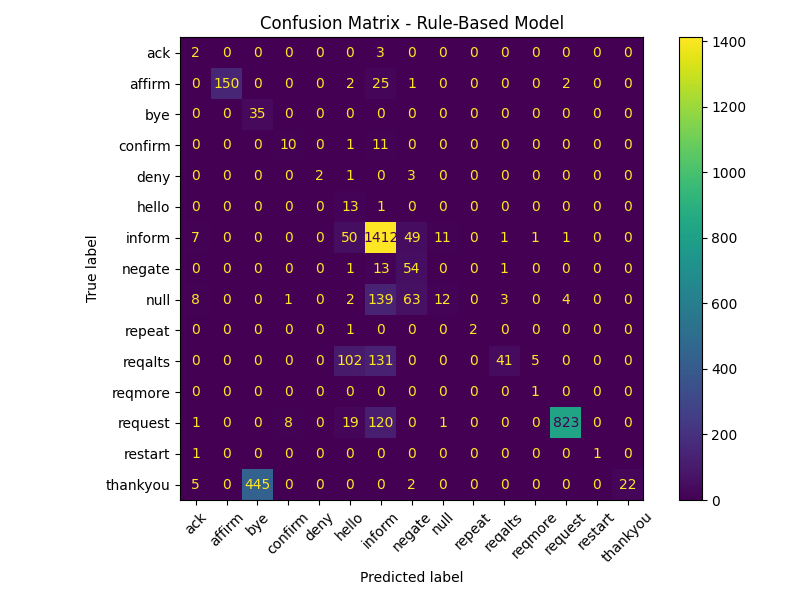
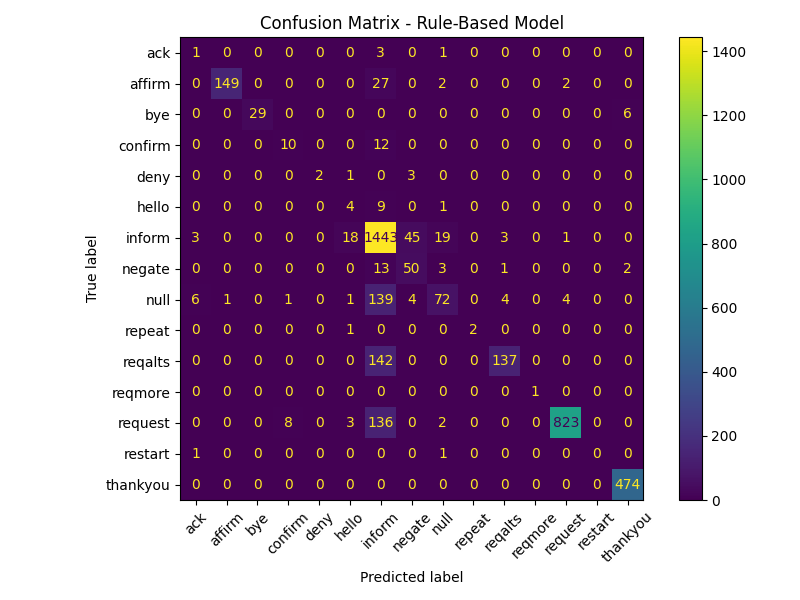
finished comments for part1A

diff --git a/part1A.py b/part1A.py
@@ -10,6 +10,24 @@ import matplotlib.pyplot as plt
 
 DATA_FILE = 'data/dialog_acts.dat'
 
+RULES = {
+    'inform': ['restaurant', 'food', 'place', 'serves', 'i need', 'looking for', 'preference', 'information', 'moderate price', 'any part of town', 'south part of town'],        'request': ['what is', 'where is', 'can you tell', 'post code', 'address', 'location', 'phone number', 'could i get', 'request', 'find', 'search', 'detail'],
+    'request': ['what is', 'where is', 'can you tell', 'post code', 'address', 'location', 'phone number', 'could i get', 'request', 'find', 'search', 'detail'],
+    'thankyou': ['thank', 'thanks', 'appreciate', 'grateful', 'thank you', 'many thanks', 'thankful'],
+    'reqalts': ['how about', 'alternative', 'other', 'other options', 'alternatives', 'another', 'another suggestion', 'different', 'else', 'instead'],
+    'null': ['cough', 'noise', 'laugh', 'uh', 'um', 'background', 'incoherent'],
+    'affirm': ['yes', 'yeah', 'right', 'correct', 'sure', 'absolutely', 'definitely', 'of course', 'affirm', 'indeed'],
+    'negate': ['no', 'not', 'don\'t', 'nope', 'none', 'wrong', 'never', 'incorrect'],
+    'bye': ['goodbye', 'bye', 'see you', 'farewell', 'later', 'take care', 'talk to you soon'],
+    'confirm': ['confirm', 'is it', 'check if', 'right?', 'verify', 'am i correct', 'confirming', 'confirmation', 'can you confirm'],
+    'hello': ['hi', 'hello', 'hey', 'greetings', 'good morning', 'good afternoon', 'good evening', 'howdy'],
+    'repeat': ['repeat', 'again', 'say again', 'can you repeat', 'could you repeat', 'pardon'],
+    'ack': ['okay', 'um', 'uh-huh', 'got it', 'alright', 'fine', 'ok', 'acknowledge'],
+    'deny': ['dont want', 'don\'t want', 'reject', 'not that', 'no thanks', 'not interested', 'decline', 'denying'],
+    'restart': ['restart', 'start over', 'begin again', 'reset', 'new', 'begin anew'],
+    'reqmore': ['more', 'additional', 'extra', 'any more', 'other', 'further']
+}
+
 def create_dataframe(data_file):
     """
     Creates a Pandas DataFrame from the given data file.
@@ -20,7 +38,6 @@ def create_dataframe(data_file):
     Returns:
         df: A DataFrame with two columns: 'label' and 'utterance'.
     """
-
     labels = []
     utterances = []
 
@@ -45,7 +62,6 @@ def create_dataframe_no_dup(df):
     Returns:
         df_no_dup: A new DataFrame with duplicate utterances removed.
     """
-    
     # remove \n to avoid newlines in no dup file
     df['utterance'] =  df['utterance'].str.replace('\n', '')
 
@@ -57,6 +73,31 @@ def create_dataframe_no_dup(df):
 
     return df_no_dup
 
+def generate_barplots(df):
+    """
+    Generates a bar plot visualizing the distribution of utterance lengths (number of words) in the given DataFrame.
+
+    Args:
+        df: A Pandas DataFrame with 'label' and 'utterance' columns.
+    """
+    count = df['utterance'].str.split().str.len()
+    count.index = count.index.astype(str) + ' words:'
+    count.value_counts().plot(logy=True, kind='bar', color='green', title='Distribution of # words per utterance of original dataset')
+    
+    plt.xlabel('# words in utterance', labelpad=12)
+    plt.ylabel('Count')
+
+    # Adjust layout to prevent labels from being cut off
+    plt.tight_layout()
+
+    # Create the 'figures' directory if it doesn't exist
+    figures_dir = "figures"
+    os.makedirs(figures_dir, exist_ok=True)
+    
+    # Save the plot in the 'figures' directory
+    plot_filename = os.path.join(figures_dir, "Number of words per utterance.png")
+    plt.savefig(plot_filename)
+
 def return_majority_label(df):
     """
     Returns the most frequent label in the DataFrame.
@@ -67,7 +108,6 @@ def return_majority_label(df):
     Returns:
         majority_label: The most frequent label in the DataFrame.
     """
-
     # Count occurrences of each label
     label_counts = df['label'].value_counts()
 
@@ -89,7 +129,6 @@ def majority_label_model_predict(df, X_test):
     Returns:
         y_pred: A list of predicted labels (the majority label).
     """
-
     y_pred = []
     majority_label = return_majority_label(df)
     for _ in X_test: # for every utterance in X_test
@@ -106,31 +145,7 @@ def rule_based_model_get_label(utterance):
     Returns:
         predicted_label: The predicted label.
     """
-
-    rules = {
-        'hello': ['hi', 'hello', 'hey', 'greetings', 'good morning', 'good afternoon', 'good evening', 'howdy'],
-        'inform': ['restaurant', 'food', 'place', 'serves', 'i need', 'looking for', 'preference', 'information', 'moderate price', 'any part of town', 'south part of town'],
-
-        'request': ['what is', 'where is', 'can you tell', 'post code', 'address', 'location', 'phone number', 'could i get', 'request', 'find', 'search', 'detail'],
-        'reqmore': ['more', 'additional', 'extra', 'any more', 'other', 'further'],
-        'reqalts': ['how about', 'alternative', 'other', 'other options', 'alternatives', 'another', 'another suggestion', 'different', 'else', 'instead'],
-
-        'negate': ['no', 'not', 'don\'t', 'nope', 'none', 'wrong', 'never', 'incorrect'],
-        'deny': ['dont want', 'don\'t want', 'reject', 'not that', 'no thanks', 'not interested', 'decline', 'denying'],
-        'bye': ['goodbye', 'bye', 'see you', 'farewell', 'later', 'take care', 'talk to you soon'],
-
-        'ack': ['okay', 'um', 'uh-huh', 'got it', 'alright', 'fine', 'ok', 'acknowledge'],
-        'confirm': ['confirm', 'is it', 'check if', 'right?', 'verify', 'am i correct', 'confirming', 'confirmation', 'can you confirm'],
-        'affirm': ['yes', 'yeah', 'right', 'correct', 'sure', 'absolutely', 'definitely', 'of course', 'affirm', 'indeed'],
-        'thankyou': ['thank', 'thanks', 'appreciate', 'grateful', 'thank you', 'many thanks', 'thankful'],
-
-        'repeat': ['repeat', 'again', 'say again', 'can you repeat', 'could you repeat', 'pardon'],
-        'restart': ['restart', 'start over', 'begin again', 'reset', 'new', 'begin anew'],
-
-        'null': ['cough', 'noise', 'laugh', 'uh', 'um', 'background', 'incoherent']
-    }
-
-    for label, keywords in rules.items():
+    for label, keywords in RULES.items():
         if any(keyword in utterance for keyword in keywords):
             return label
 
@@ -147,7 +162,6 @@ def rule_based_model_predict(X_test):
     Returns:
         y_pred: A list of predicted labels corresponding to the test utterances.
     """
-
     y_pred = []
     for utterance in X_test:
         y_pred.append(rule_based_model_get_label(utterance))
@@ -166,10 +180,8 @@ def train_DT_LR(X_train, y_train):
         LR_model: The trained Logistic Regression model.
         vectorizer: The fitted CountVectorizer object.
     """
-
     vectorizer = CountVectorizer()
     X_bow_train = vectorizer.fit_transform(X_train)
-    # X_bow_test = vectorizer.transform(X_test)
     
     # Train Decision-Tree model
     DT_model = DecisionTreeClassifier()
@@ -195,7 +207,6 @@ def predict_DT_LR(DT_model, LR_model, vectorizer, X_test):
         Y_pred_DT: A list or array containing the predicted labels for the test data using the Decision Tree model.
         Y_pred_LR: A list or array containing the predicted labels for the test data using the Logistic Regression model.
     """
-
     X_bow_test = vectorizer.transform(X_test)
     Y_pred_DT = DT_model.predict(X_bow_test)
     Y_pred_LR = LR_model.predict(X_bow_test)
@@ -212,7 +223,6 @@ def save_confusion_matrix(y_test, y_pred, model_name):
         y_pred: A list of the predicted labels for the test set.
         model_name: A string with the name of the model for evaluation.
     """
-
     # labels = ["ack", "affirm", "bye", "confirm", "deny", "hello", "inform", "negate", "null", "repeat", "reqalts", "require", "request", "restart", "thankyou"]
     
     # Get the unique labels from the test set and sort to keep labels in the correct order
@@ -250,7 +260,6 @@ def print_metrics(y_test, y_pred, model_name):
         y_pred: A list of the predicted labels for the test set.
         model_name: A string with the name of the model for evaluation.
     """
-
     print("\nClassification Report:")
     print(classification_report(y_test, y_pred, zero_division=0))
 
@@ -267,27 +276,39 @@ def print_metrics(y_test, y_pred, model_name):
     print("Recall:", recall)
     print("F1-score:", f1)
 
-def print_metrics_for_each_model(df, X_dup_test, y_dup_test, y_no_dup_test, y_dup_pred_DT, y_dup_pred_LR, y_no_dup_pred_DT, y_no_dup_pred_LR):
+def print_metrics_for_baseline_models(df, X_test, y_test):
     """
-    Prints evaluation metrics for alld the models (majority-label model,
-    rule-based model, decision tree and logistic regression).
+    Prints evaluation metrics for the baseline models (majority-label model and rule-based model).
 
     Args:
         df: The DataFrame containing the training data.
         X_test: A list of test utterances.
         y_test: A list of the actual labels for the test utterances.
     """
-    
     # Make predictions and print metrics for the majority label model
     print("\nMajority-Label Model - Evaluation Metrics:")
-    y_pred_ml = majority_label_model_predict(df, X_dup_test)
-    print_metrics(y_dup_test, y_pred_ml, "Majority-Label Model")
+    y_pred = majority_label_model_predict(df, X_test)
+    print_metrics(y_test, y_pred, "Majority-Label Model")
 
     # Make predictions and print metrics for the rule based model
     print("\nRule-Based Model - Evaluation Metrics:")
-    y_pred_rb = rule_based_model_predict(X_dup_test)
-    print_metrics(y_dup_test, y_pred_rb, "Rule-Based Model")
+    y_pred = rule_based_model_predict(X_test)
+    print_metrics(y_test, y_pred, "Rule-Based Model")
 
+def print_metrics_for_DT_LR(y_dup_test, y_dup_pred_DT, y_dup_pred_LR, y_no_dup_test, y_no_dup_pred_DT, y_no_dup_pred_LR):
+    """
+    Prints evaluation metrics for the ML models (Decision Tree and Logistic Regression)
+    on both the original and duplicate-free data.
+
+    Args:
+        y_dup_test: The true labels for the test set with duplicate utterances.
+        y_dup_pred_DT: The predicted labels for the test set with duplicate utterances using the Decision Tree model.
+        y_dup_pred_LR: The predicted labels for the test set with duplicate utterances using the Logistic Regression model.
+
+        y_no_dup_test: The true labels for the test set without duplicate utterances.
+        y_no_dup_pred_DT: The predicted labels for the test set without duplicate utterances using the Decision Tree model.
+        y_no_dup_pred_LR: The predicted labels for the test set without duplicate utterances using the Logistic Regression model.
+    """
     print("\nDecision-Tree model - Evaluation Metrics:")
     print("\nOriginal data:")
     print_metrics(y_dup_test, y_dup_pred_DT, "DT-model original data")
@@ -300,42 +321,12 @@ def print_metrics_for_each_model(df, X_dup_test, y_dup_test, y_no_dup_test, y_du
     print("\nData without duplications:")
     print_metrics(y_no_dup_test, y_no_dup_pred_LR, "LR-model no-dup data")
 
-
 def print_menu():
     """Prints the available menu options."""
     print("\nOptions:")
     print("1. Print evaluation metrics")
     print("2. Give an utterance for prediction")
     print("3. Exit")
-
-def generate_barplots(df):
-    """
-    Generates a bar plot visualizing the distribution of utterance lengths (number of words) in the given DataFrame.
-
-    Args:
-        df: A Pandas DataFrame with 'label' and 'utterance' columns.
-    """
-
-    # df_counted = df.groupby(['label'])['label'].count().reset_index(name='count')
-    # df.plot.pie(y='label', figsize=(10, 10))
-    # df.label.value_counts().plot(kind='bar', xlabel='Label', ylabel='Count', title='Distribution of dialog act labels in original dataset')
-    count = df['utterance'].str.split().str.len()
-    count.index = count.index.astype(str) + ' words:'
-    # count.sort_index(inplace=True)
-    count.value_counts().plot(logy=True, kind='bar', color='green', title='Distribution of # words per utterance of original dataset')
-    plt.xlabel('# words in utterance', labelpad=12)
-    plt.ylabel('Count')
-
-    plt.tight_layout()
-
-    # Create the 'figures' directory if it doesn't exist
-    figures_dir = "figures"
-    os.makedirs(figures_dir, exist_ok=True)
-    
-    # Save the plot in the 'figures' directory
-    plot_filename = os.path.join(figures_dir, "Number of words per utterance.png")
-    plt.savefig(plot_filename)
-
 
 if __name__ == "__main__":
     # Load the data into a DataFrame
@@ -356,14 +347,13 @@ if __name__ == "__main__":
     X_dup_train, X_dup_test, y_dup_train, y_dup_test = train_test_split(X_dup, y_dup, test_size=0.15, random_state=42)
     X_no_dup_train, X_no_dup_test, y_no_dup_train, y_no_dup_test = train_test_split(X_no_dup, y_no_dup, test_size=0.15, random_state=42)
 
-    # Make predictions on original data for DT and LR
+    # Train and make predictions on original data for DT and LR
     DT_model, LR_model, vectorizer = train_DT_LR(X_dup_train, y_dup_train)
     y_dup_pred_DT, y_dup_pred_LR = predict_DT_LR(DT_model, LR_model, vectorizer, X_dup_test)
 
-    # Make predictions on no dup test set for DT and LR
+    # Train and make predictions on data without duplicated utterances for DT and LR
     DT_model_no_dup, LR_model_no_dup, vectorizer_no_dup = train_DT_LR(X_no_dup_train, y_no_dup_train)
     y_no_dup_pred_DT, y_no_dup_pred_LR = predict_DT_LR(DT_model_no_dup, LR_model_no_dup, vectorizer_no_dup, X_no_dup_test)
-   
 
     while True:
         # Display the menu
@@ -372,10 +362,12 @@ if __name__ == "__main__":
         # Get input from the user
         choice = input("\nEnter your choice (1/2/3): ").strip()
 
-        if choice == '1':
-            # Print evaluation metrics
-            print_metrics_for_each_model(df, X_dup_test, y_dup_test, y_no_dup_test, y_dup_pred_DT, y_dup_pred_LR, y_no_dup_pred_DT, y_no_dup_pred_LR)
+        if choice == '1': 
+            # Print evaluation metrics for baseline models using original data (with duplicated utterances)  
+            print_metrics_for_baseline_models(df, X_dup_test, y_dup_test)
 
+            # Print evaluation metrics for baseline models using both original data and data without duplicated utterances
+            print_metrics_for_DT_LR(y_dup_test, y_dup_pred_DT, y_dup_pred_LR, y_no_dup_test, y_no_dup_pred_DT, y_no_dup_pred_LR)
 
         elif choice == '2':
             while True:
@@ -387,6 +379,7 @@ if __name__ == "__main__":
                     print("Exiting...")
                     break
 
+                # Transform the user utterance with the vectorizer
                 user_utterance_vec = vectorizer.transform([user_utterance])
 
                 # Predict labels using DT and LR models
@@ -397,7 +390,6 @@ if __name__ == "__main__":
                 print(f"Predicted Label (Decision Tree): {y_pred_DT}")
                 print(f"Predicted Label (Logistic Regression): {y_pred_LR}")
                 
-
         elif choice == '3':
             # Exit the program
             print("Exiting...")
